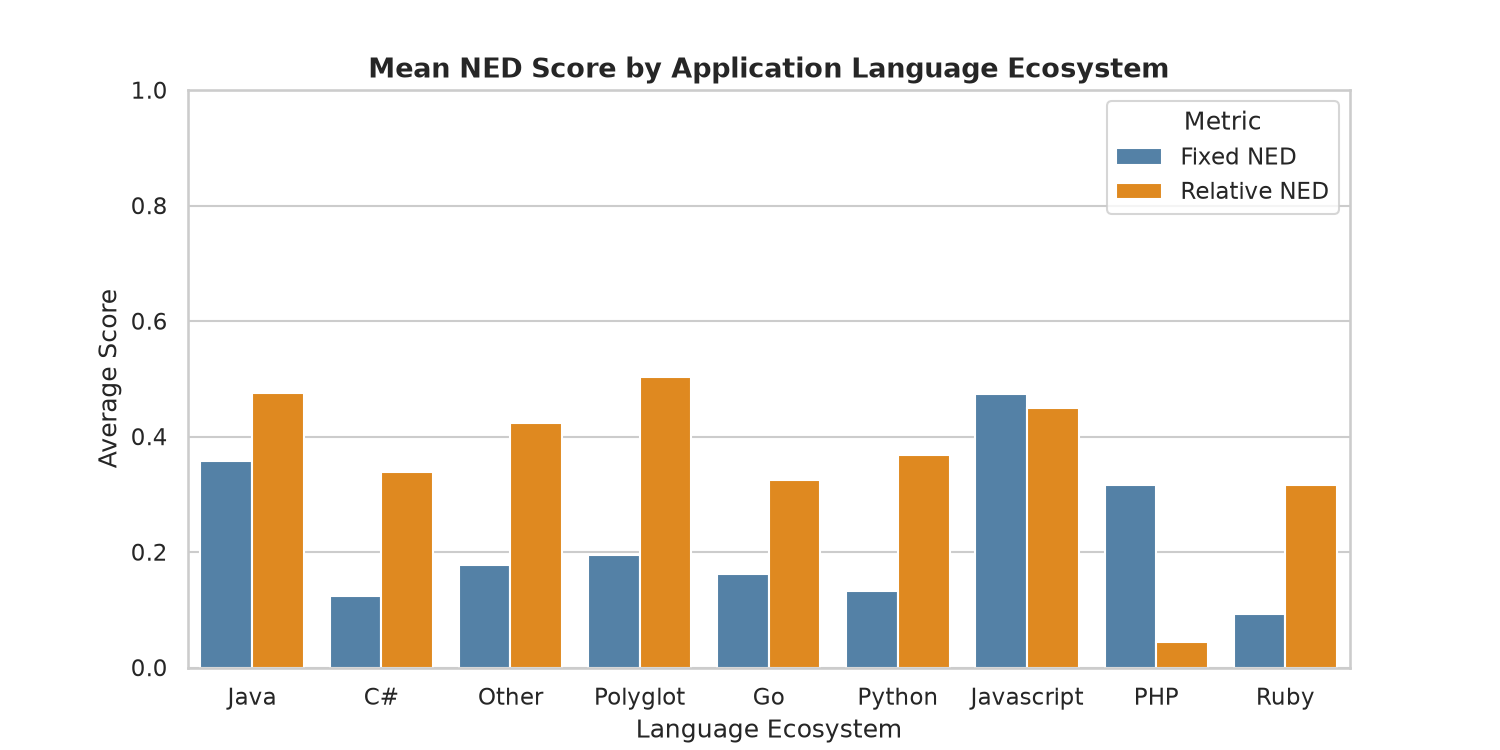
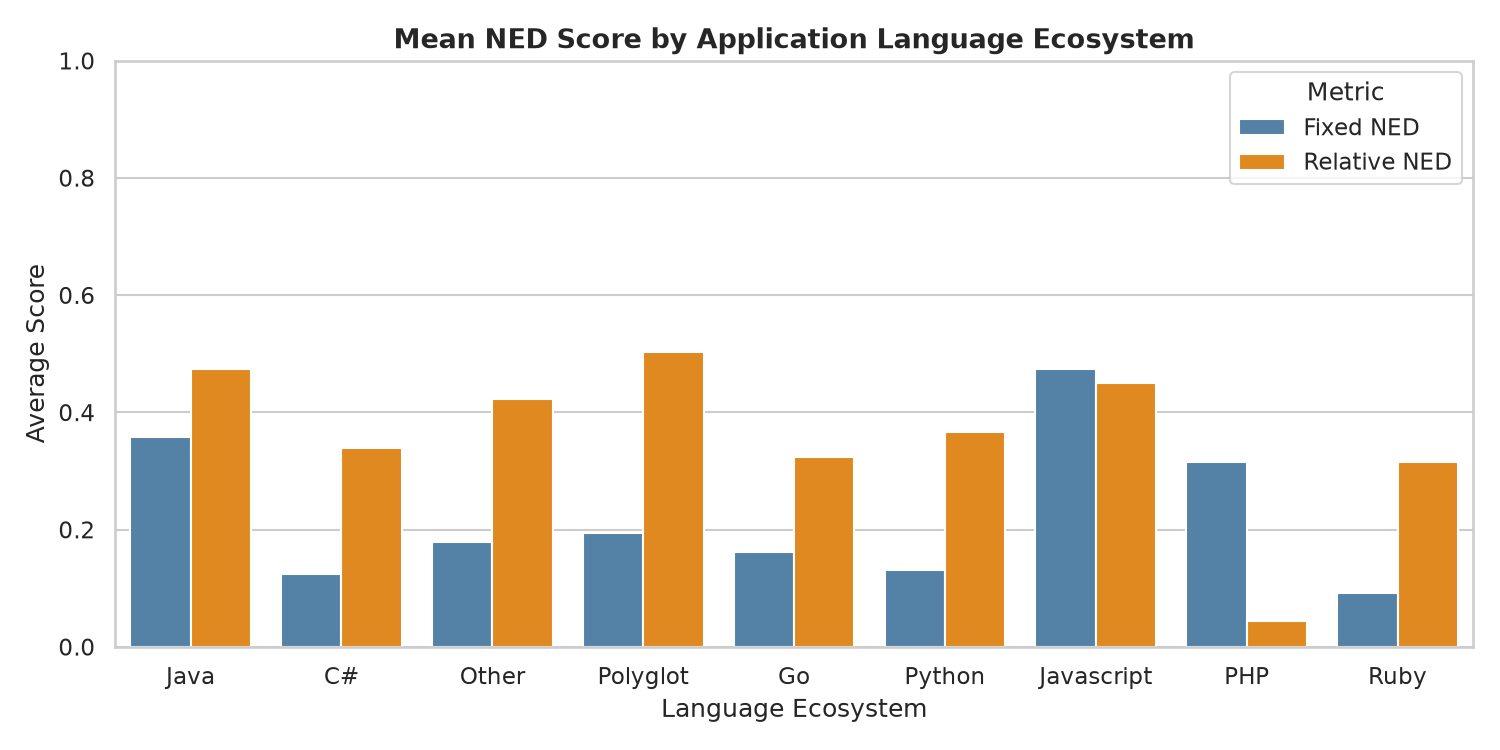
feat(analysis): add Fixed and Relative NED score distribution figures by language

diff --git a/analysis/ned.py b/analysis/ned.py
@@ -330,10 +330,82 @@ ax.set_xlabel("Language Ecosystem")
 ax.set_ylabel("Average Score")
 ax.set_ylim(0, 1.0)
 ax.legend(title="Metric")
+plt.tight_layout()
 
 fig_lang_path = PROJECT_ROOT / "analysis" / "ned_by_language.png"
 fig.savefig(fig_lang_path, dpi=150)
 print(f"Saved language comparison plot to: {fig_lang_path}")
+plt.show()
+
+# %%
+# Score distributions across language ecosystems: Fixed NED
+fig_abs, ax_abs = plt.subplots(figsize=(10, 5))
+order_langs = sorted(df_apps["lang_group"].unique(), key=lambda l: (l == "Other", l))
+sns.boxplot(
+    data=df_apps,
+    x="lang_group",
+    y="ned_absolute",
+    hue="lang_group",
+    palette="Blues",
+    legend=False,
+    ax=ax_abs,
+    order=order_langs
+)
+sns.stripplot(
+    data=df_apps,
+    x="lang_group",
+    y="ned_absolute",
+    color="black",
+    alpha=0.6,
+    jitter=0.2,
+    size=6,
+    ax=ax_abs,
+    order=order_langs
+)
+ax_abs.set_title("Fixed NED Score Distribution by Implementation Language", fontsize=13, fontweight="bold")
+ax_abs.set_xlabel("Implementation Language")
+ax_abs.set_ylabel("Fixed NED Score")
+ax_abs.set_ylim(-0.05, 1.05)
+plt.tight_layout()
+
+fig_abs_path = PROJECT_ROOT / "analysis" / "ned_absolute_by_language.png"
+fig_abs.savefig(fig_abs_path, dpi=150)
+print(f"Saved Fixed NED language breakdown plot to: {fig_abs_path}")
+plt.show()
+
+# %%
+# Score distributions across language ecosystems: Relative NED
+fig_rel, ax_rel = plt.subplots(figsize=(10, 5))
+sns.boxplot(
+    data=df_apps,
+    x="lang_group",
+    y="ned_relative",
+    hue="lang_group",
+    palette="Oranges",
+    legend=False,
+    ax=ax_rel,
+    order=order_langs
+)
+sns.stripplot(
+    data=df_apps,
+    x="lang_group",
+    y="ned_relative",
+    color="black",
+    alpha=0.6,
+    jitter=0.2,
+    size=6,
+    ax=ax_rel,
+    order=order_langs
+)
+ax_rel.set_title("Relative NED Score Distribution by Implementation Language", fontsize=13, fontweight="bold")
+ax_rel.set_xlabel("Implementation Language")
+ax_rel.set_ylabel("Relative NED Score")
+ax_rel.set_ylim(-0.05, 1.05)
+plt.tight_layout()
+
+fig_rel_path = PROJECT_ROOT / "analysis" / "ned_relative_by_language.png"
+fig_rel.savefig(fig_rel_path, dpi=150)
+print(f"Saved Relative NED language breakdown plot to: {fig_rel_path}")
 plt.show()
 
 # %% [markdown]
@@ -465,18 +537,40 @@ with PdfPages(pdf_report_path) as pdf:
         pdf.savefig(fig_dist, dpi=150)
         plt.close(fig_dist)
 
-    # Page 3: Language Breakdown Figure
+    # Page 3: Language Breakdown Figure (Mean Comparison)
     fig_lang_p = PROJECT_ROOT / "analysis" / "ned_by_language.png"
     if fig_lang_p.exists():
         fig_lang = plt.figure(figsize=(11, 6))
         img_lang = plt.imread(fig_lang_p)
         plt.imshow(img_lang)
         plt.axis("off")
-        plt.title("NED Distribution Grouped by Language", fontsize=14, fontweight="bold")
+        plt.title("Mean NED Score Grouped by Language", fontsize=14, fontweight="bold")
         pdf.savefig(fig_lang, dpi=150)
         plt.close(fig_lang)
 
-    # Page 4: Scale Correlations Figure
+    # Page 4: Fixed NED Language Distribution Figure
+    fig_abs_p = PROJECT_ROOT / "analysis" / "ned_absolute_by_language.png"
+    if fig_abs_p.exists():
+        fig_abs_img = plt.figure(figsize=(11, 6))
+        img_abs = plt.imread(fig_abs_p)
+        plt.imshow(img_abs)
+        plt.axis("off")
+        plt.title("Fixed NED Distribution Grouped by Language", fontsize=14, fontweight="bold")
+        pdf.savefig(fig_abs_img, dpi=150)
+        plt.close(fig_abs_img)
+
+    # Page 5: Relative NED Language Distribution Figure
+    fig_rel_p = PROJECT_ROOT / "analysis" / "ned_relative_by_language.png"
+    if fig_rel_p.exists():
+        fig_rel_img = plt.figure(figsize=(11, 6))
+        img_rel = plt.imread(fig_rel_p)
+        plt.imshow(img_rel)
+        plt.axis("off")
+        plt.title("Relative NED Distribution Grouped by Language", fontsize=14, fontweight="bold")
+        pdf.savefig(fig_rel_img, dpi=150)
+        plt.close(fig_rel_img)
+
+    # Page 6: Scale Correlations Figure
     if fig_scale_path.exists():
         fig_scale = plt.figure(figsize=(11, 6))
         img_scale = plt.imread(fig_scale_path)
